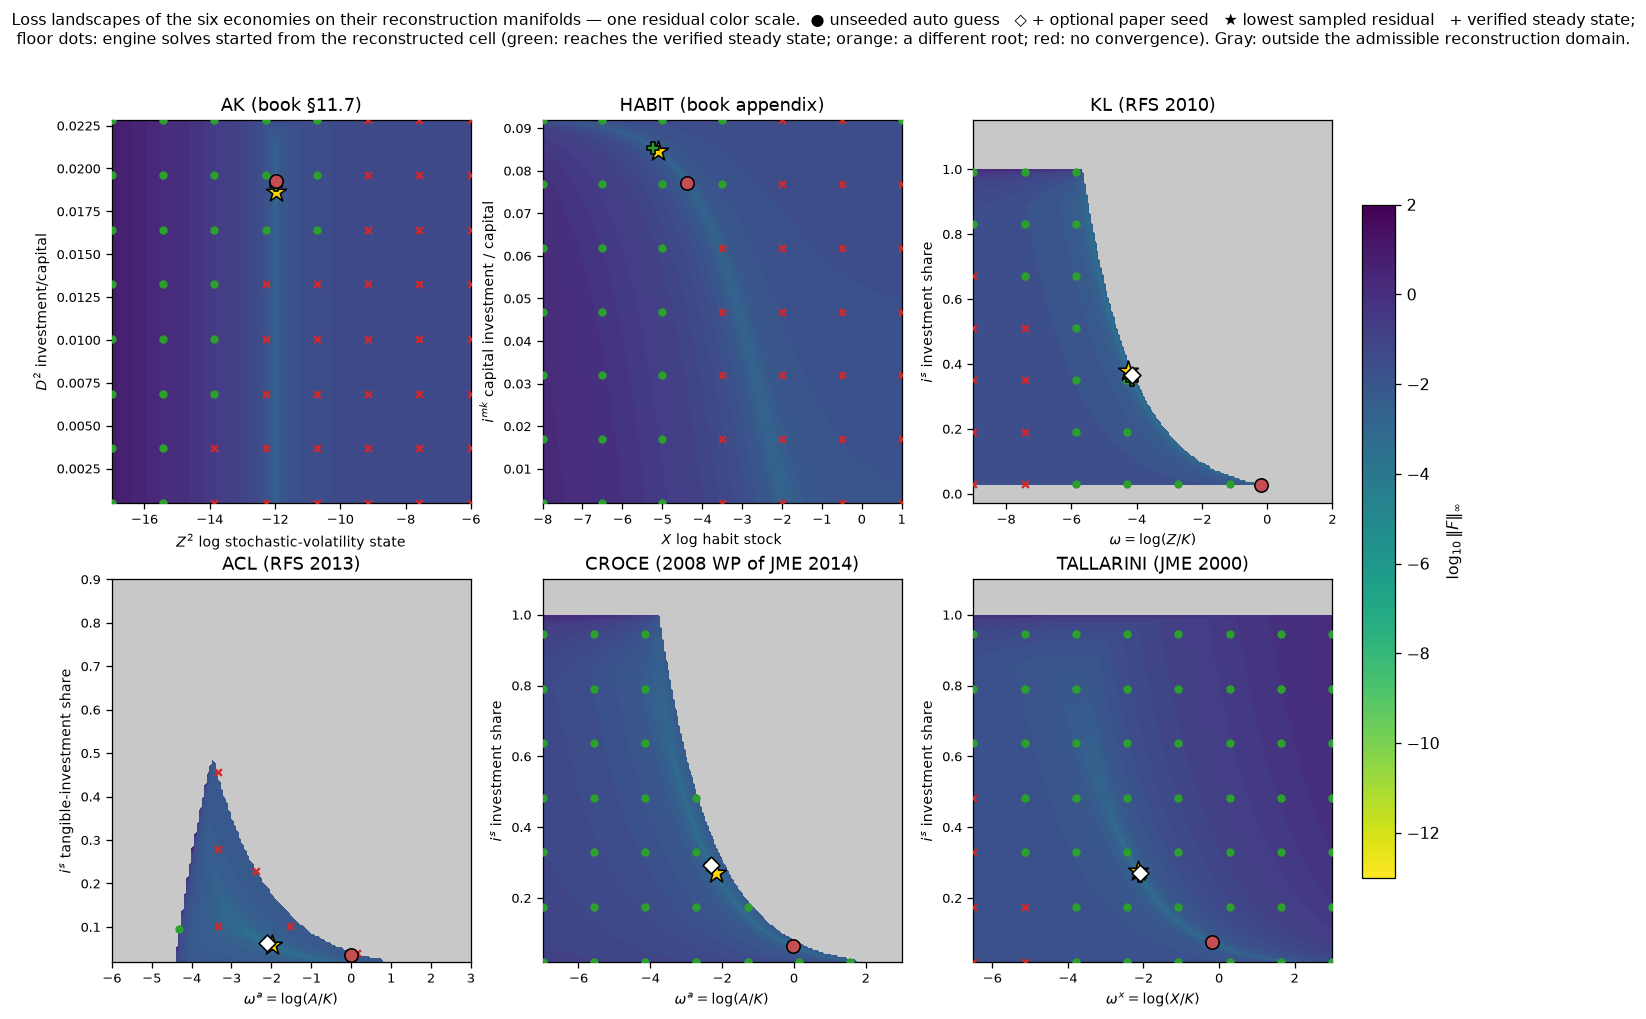
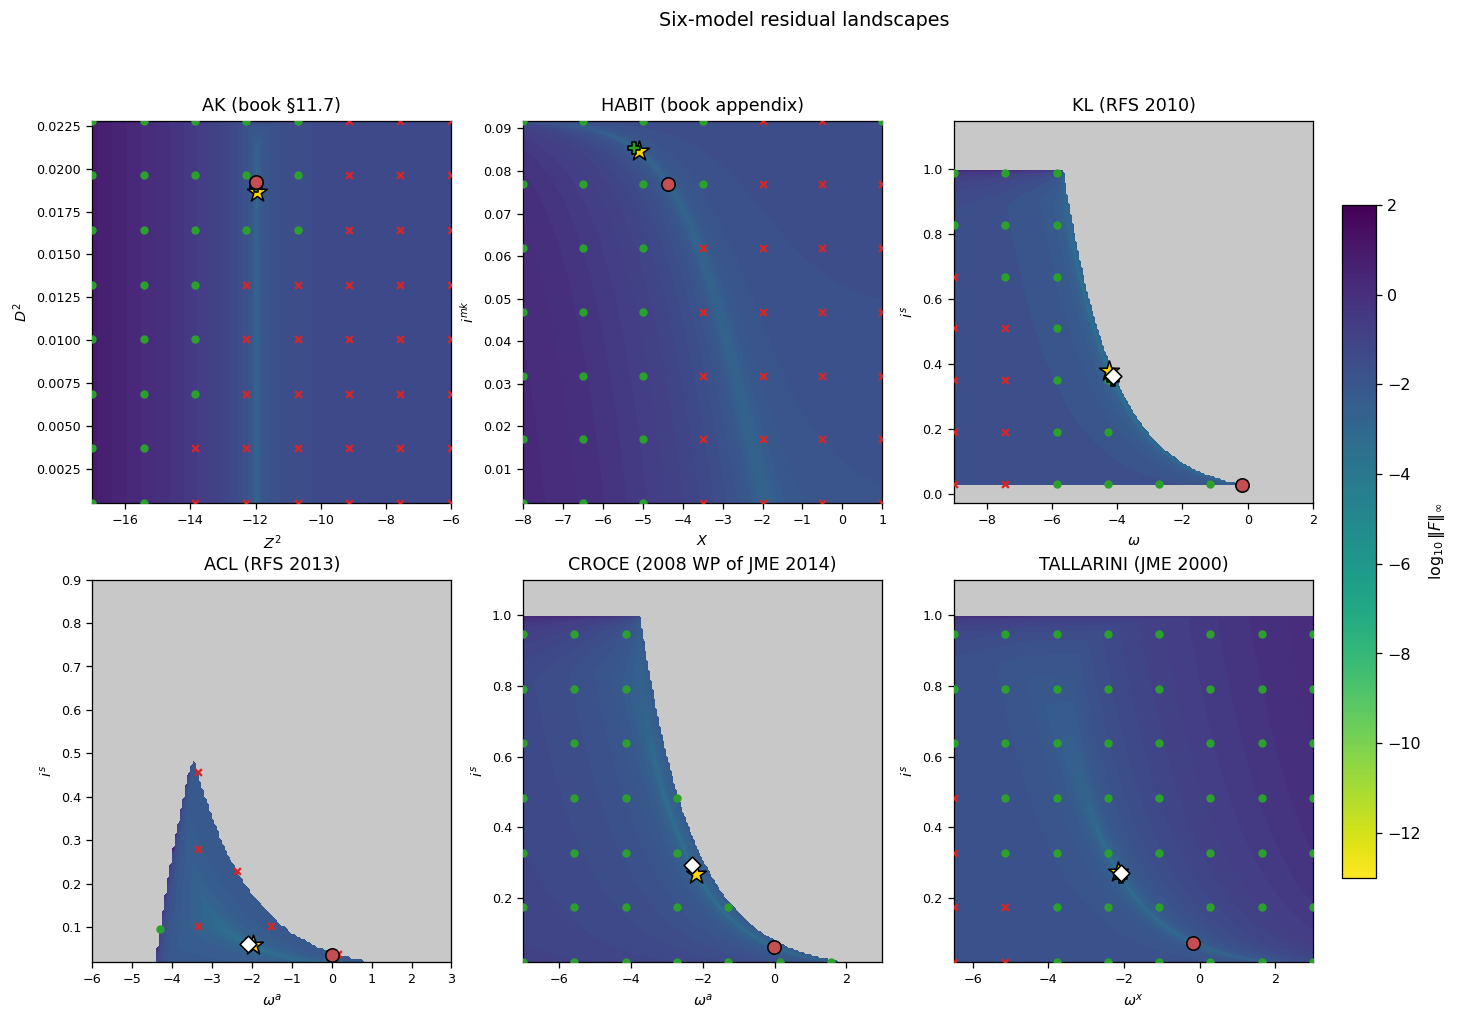
simplify 3D landscapes and move interpretation to captions

diff --git a/v2/support_material/make_landscapes.py b/v2/support_material/make_landscapes.py
@@ -32,6 +32,7 @@ not the surface, is what justifies the word "basin".
 
 Usage:  python make_landscapes.py KL          (one model)
         python make_landscapes.py overview    (2x3 panel from saved npz)
+        python make_landscapes.py render      (redraw all figures from saved npz)
         python make_landscapes.py all         (everything, sequentially)
 """
 import sys, os, re, time, warnings
@@ -39,17 +40,21 @@ warnings.filterwarnings("ignore")
 HERE = os.path.dirname(os.path.abspath(__file__))
 V2 = os.path.dirname(HERE)
 sys.path.insert(0, V2)
-import numpy as np, sympy as sp
+CLI_ARG = sys.argv[1] if len(sys.argv) > 1 else "all"
+RENDER_ONLY = CLI_ARG in {"overview", "render"}
+import numpy as np
 import matplotlib
 matplotlib.use("Agg")
 import matplotlib.pyplot as plt
 from matplotlib import colors as mcolors
 from mpl_toolkits.mplot3d import Axes3D  # noqa
-from scipy.optimize import brentq
-import uncertain_expansion_faisal_feb26 as robust
-from uncertain_expansion_faisal_feb26 import compile_equations
-from autosolve import derive_guess, autosolve, _solve_checked, _ss_names
-from models_sourced import MODELS
+if not RENDER_ONLY:
+    import sympy as sp
+    from scipy.optimize import brentq
+    import uncertain_expansion_faisal_feb26 as robust
+    from uncertain_expansion_faisal_feb26 import compile_equations
+    from autosolve import derive_guess, autosolve, _solve_checked, _ss_names
+    from models_sourced import MODELS
 
 ZMIN, ZMAX = -13.0, 2.0          # one residual color scale for all six
 NORM = mcolors.Normalize(vmin=ZMIN, vmax=ZMAX)
@@ -326,6 +331,15 @@ TITLE = {"AK": "AK (book §11.7)", "HABIT": "HABIT (book appendix)",
          "KL": "KL (RFS 2010)", "ACL": "ACL (RFS 2013)",
          "CROCE": "CROCE (2008 WP of JME 2014)", "TALLARINI": "TALLARINI (JME 2000)"}
 
+PLOT_LABELS = {
+    "AK": (r"$Z^2$", r"$D^2$"),
+    "HABIT": (r"$X$", r"$i^{mk}$"),
+    "KL": (r"$\omega$", r"$i^s$"),
+    "ACL": (r"$\omega^a$", r"$i^s$"),
+    "CROCE": (r"$\omega^a$", r"$i^s$"),
+    "TALLARINI": (r"$\omega^x$", r"$i^s$"),
+}
+
 
 def compute(name):
     cfg = CFG[name]
@@ -416,11 +430,11 @@ def plot(name):
                 allow_pickle=True)
     Z, G1, G2 = d["Z"], d["G1"], d["G2"]
     cold, seed, star, xstar, probes = d["cold"], d["seed"], d["star"], d["xstar"], d["probes"]
-    lab = list(d["labels"]); rule = str(d["rule"])
+    lab = PLOT_LABELS[name]
     WW, II = np.meshgrid(G1, G2)
     Zc = np.ma.masked_invalid(np.clip(Z, ZMIN, ZMAX))
 
-    fig = plt.figure(figsize=(12.5, 8.8))
+    fig = plt.figure(figsize=(9.2, 7.2))
     ax = fig.add_subplot(111, projection="3d")
     ax.plot_surface(WW, II, Zc, cmap=CMAP, norm=NORM, alpha=0.9,
                     linewidth=0, antialiased=True, rstride=2, cstride=2)
@@ -428,37 +442,35 @@ def plot(name):
     ax.contourf(WW, II, Zc, zdir="z", offset=zf, levels=24, cmap=CMAP,
                 norm=NORM, alpha=0.65)
     # convergence overlay on the floor
-    for out, c, m, lbl in ((2, "#2ca02c", "o", "solve from this cell reaches the verified steady state"),
-                           (1, "#ff7f0e", "s", "converges to a different root"),
-                           (0, "#d62728", "x", "no convergence within the probe budget")):
+    for out, c, m in ((2, "#2ca02c", "o"),
+                      (1, "#ff7f0e", "s"),
+                      (0, "#d62728", "x")):
         P = probes[probes[:, 2] == out] if len(probes) else np.zeros((0, 4))
         if len(P):
             ax.scatter(P[:, 0], P[:, 1], np.full(len(P), zf), marker=m, s=26,
-                       color=c, depthshade=False, label=lbl)
+                       color=c, depthshade=False)
     ax.plot([star[0]] * 2, [star[1]] * 2, [zf, star[2]], color="gold", lw=1.5)
     ax.scatter([star[0]], [star[1]], [zf], marker="*", s=260, color="gold",
-               edgecolor="k", label="lowest sampled residual on the reconstruction manifold", zorder=9)
+               edgecolor="k", zorder=9)
     ax.scatter([xstar[0]], [xstar[1]], [zf], marker="P", s=90, color="#2ca02c",
-               edgecolor="k", label="verified reference steady state", zorder=9)
+               edgecolor="k", zorder=9)
     ax.plot([cold[0]] * 2, [cold[1]] * 2, [zf, cold[2]], color="red", lw=1.0, ls=":")
     ax.scatter([cold[0]], [cold[1]], [cold[2]], marker="o", s=110, color="#c44e52",
-               edgecolor="k", label="unseeded auto guess (at its own residual)", zorder=9)
+               edgecolor="k", zorder=9)
     if np.isfinite(seed[0]):
         ax.plot([seed[0]] * 2, [seed[1]] * 2, [zf, seed[2]], color="k", lw=1.0, ls=":")
         ax.scatter([seed[0]], [seed[1]], [seed[2]], marker="D", s=100, color="white",
-                   edgecolor="k", label="auto guess + optional paper seed", zorder=9)
-    ax.set_xlabel(lab[0]); ax.set_ylabel(lab[1])
-    ax.set_zlabel(r"$\log_{10}\|F\|_\infty$ (full system, reconstructed slice)")
+                   edgecolor="k", zorder=9)
+    ax.set_xlabel(lab[0], labelpad=7)
+    ax.set_ylabel(lab[1], labelpad=7)
     ax.set_zlim(zf, ZMAX)
-    ax.set_title(f"{TITLE[name]} — loss landscape on the reconstruction manifold\n"
-                 f"reconstruction: {rule}; no joint nonlinear solve at grid points.\n"
-                 "Blank: outside the admissible reconstruction domain. "
-                 "Floor markers: engine solves started from the reconstructed cell.",
-                 fontsize=10)
+    ax.set_title(TITLE[name], fontsize=12, pad=10)
     ax.view_init(elev=28, azim=-63)
-    ax.legend(loc="upper left", fontsize=7)
+    ax.set_box_aspect((1.25, 1.0, 0.75))
+    ax.tick_params(labelsize=8, pad=1)
+    fig.subplots_adjust(left=0.0, right=0.97, bottom=0.01, top=0.92)
     out = os.path.join(HERE, f"landscape_{name.lower()}.png")
-    plt.savefig(out, dpi=115, bbox_inches="tight")
+    plt.savefig(out, dpi=135)
     plt.close(fig)
     print("saved", out, flush=True)
 
@@ -473,7 +485,7 @@ def overview():
         Z, G1, G2 = d["Z"], d["G1"], d["G2"]
         cold, seed, star, xstar, probes = (d["cold"], d["seed"], d["star"],
                                            d["xstar"], d["probes"])
-        lab = list(d["labels"])
+        lab = PLOT_LABELS[name]
         WW, II = np.meshgrid(G1, G2)
         Zc = np.ma.masked_invalid(np.clip(Z, ZMIN, ZMAX))
         cf = axp.contourf(WW, II, Zc, levels=24, cmap=CMAP, norm=NORM)
@@ -494,12 +506,7 @@ def overview():
         axp.set_title(TITLE[name], fontsize=11)
         axp.set_xlabel(lab[0], fontsize=9); axp.set_ylabel(lab[1], fontsize=9)
         axp.tick_params(labelsize=8)
-    fig.suptitle("Loss landscapes of the six economies on their reconstruction manifolds — "
-                 "one residual color scale.  ● unseeded auto guess   ◇ + optional paper seed   "
-                 "★ lowest sampled residual   + verified steady state;\n"
-                 "floor dots: engine solves started from the reconstructed cell "
-                 "(green: reaches the verified steady state; orange: a different root; red: no convergence). "
-                 "Gray: outside the admissible reconstruction domain.", fontsize=10)
+    fig.suptitle("Six-model residual landscapes", fontsize=12)
     cb = fig.colorbar(plt.cm.ScalarMappable(norm=NORM, cmap=CMAP),
                       ax=axes, shrink=0.8, pad=0.02)
     cb.set_label(r"$\log_{10}\|F\|_\infty$")
@@ -510,8 +517,12 @@ def overview():
 
 
 if __name__ == "__main__":
-    arg = sys.argv[1] if len(sys.argv) > 1 else "all"
+    arg = CLI_ARG
     if arg == "overview":
+        overview()
+    elif arg == "render":
+        for m in ["AK", "HABIT", "KL", "ACL", "CROCE", "TALLARINI"]:
+            plot(m)
         overview()
     elif arg == "all":
         for m in ["AK", "HABIT", "KL", "ACL", "CROCE", "TALLARINI"]:

diff --git a/v2/AUTO_GUESS.md b/v2/AUTO_GUESS.md
@@ -118,18 +118,6 @@ warm-starting each solve from the previous solution.
 
 ## 4. Numerical geometry: what $G_0$ has to find
 
-![overview](support_material/landscapes_overview.png)
-
-**The six loss landscapes in 3D** (surface = residual height on the
-reconstruction manifold; floor = the same landscape as a contour map with
-the convergence probes):
-
-| | |
-|---|---|
-| ![AK 3D](support_material/landscape_ak.png) | ![HABIT 3D](support_material/landscape_habit.png) |
-| ![KL 3D](support_material/landscape_kl.png) | ![ACL 3D](support_material/landscape_acl.png) |
-| ![CROCE 3D](support_material/landscape_croce.png) | ![TALLARINI 3D](support_material/landscape_tallarini.png) |
-
 For each model a **reconstruction map** $R_{\mathcal M}(z_1,z_2)$ takes
 the two fragile coordinates (the endogenous ratio state and the investment
 margin — the directions only the Euler equation can pin) and rebuilds
@@ -140,7 +128,14 @@ multipliers by one linear least-squares step (the first-order-condition
 block is linear in them). No joint nonlinear solve is performed at any
 grid point. The plotted surface is
 
-$$L_{\mathcal M}(z_1,z_2)=\log_{10}\left\|F_{\mathcal M}\!\big(R_{\mathcal M}(z_1,z_2)\big)\right\|_\infty ,$$
+$$
+L_{\mathcal M}(z_1,z_2)
+=
+\log_{10}
+\left\|
+F_{\mathcal M}\left(R_{\mathcal M}(z_1,z_2)\right)
+\right\|_\infty .
+$$
 
 so the only residual left on the manifold is the Euler incompatibility —
 the thing the solver actually has to resolve. Blank cells are **outside
@@ -149,26 +144,66 @@ value recursion undefined because the transversality margin is negative);
 they are properties of the candidate slice, not statements that the model
 has no solution.
 
-Reading the figures (`support_material/landscape_*.png`, one residual
-color scale throughout; `landscape_kl.png` is the canonical example):
+**Common visual key.** The surface height and color both report
+$\log_{10}\|F\|_\infty$ on a common scale. On the floor, green circles
+reach the verified steady state, orange squares reach another root, and
+red crosses do not converge within the probe budget. The large markers
+are ● unseeded $G_0$, ◇ optional paper seed, ★ lowest sampled residual,
+and + verified reference steady state.
 
-- ● = the unseeded $G_0$ guess, plotted at its own residual;
-  ◇ = $G_0$ with the paper's optional closed-form seed;
-  ★ = the lowest sampled residual on the manifold — for KL one grid cell
-  from the paper's closed-form steady state, found by grid evaluation
-  alone; **+** = the verified reference steady state — the accepted solve,
-  plotted for comparison (its own validation type is per model: independent
-  for the cold solves, consistency for seeded ACL, book replication for
-  HABIT).
-- The **floor dots** are the honest meaning of the word *basin*: at a
-  sparse grid of admissible cells the engine solve is actually started
-  from the reconstructed vector and classified — green (reaches the
-  verified steady state), orange (a different root), red (no convergence
-  within the probe budget). The surface shows geometry; the dots show
-  attraction.
-- This is the same instinct as examining objective geometry in convex
-  optimization, but it is **not** a claim that these problems are convex
-  — the landscapes visibly are not.
+![Six-model residual overview](support_material/landscapes_overview.png)
+
+*Figure 1. Six-model overview. Each panel is a top-down view of the same
+surface shown below. Gray denotes points outside the admissible
+reconstruction domain; the floor probes provide the empirical
+attraction-basin evidence.*
+
+![AK three-dimensional loss landscape](support_material/landscape_ak.png)
+
+*Figure 2a. AK economy. The low-residual trough is narrow in the investment
+direction and comparatively flat in the stochastic-volatility state. The
+unseeded construction solves without a paper seed and improves on the
+book's legacy hand-built starting vector.*
+
+![HABIT three-dimensional loss landscape](support_material/landscape_habit.png)
+
+*Figure 2b. Habit economy. The diagonal trough links the habit stock to
+capital investment. Green and red floor probes expose the attraction
+boundary, while the unseeded construction reaches the book-replication
+steady state without an external seed.*
+
+![KL three-dimensional loss landscape](support_material/landscape_kl.png)
+
+*Figure 2c. Kaltenbrunner–Lochstoer economy. The admissible domain has a
+curved boundary and a sharp Euler-compatible valley. The cold guess starts
+on the plateau but still solves; the optional paper seed moves the starting
+point close to the valley.*
+
+![ACL three-dimensional loss landscape](support_material/landscape_acl.png)
+
+*Figure 2d. Ai–Croce–Li economy. The two-capital model has the thinnest
+admissible region and the smallest sampled attraction basin. The cold
+construction fails within budget, whereas the paper-derived seed reaches
+the verified solution; this panel is therefore a consistency check rather
+than an independent discovery.*
+
+![CROCE three-dimensional loss landscape](support_material/landscape_croce.png)
+
+*Figure 2e. Croce economy. The reconstructed surface contains a broad,
+connected attraction basin: every sampled admissible starting point
+reaches the same steady state. The paper seed is an accelerator, not a
+requirement.*
+
+![Tallarini three-dimensional loss landscape](support_material/landscape_tallarini.png)
+
+*Figure 2f. Tallarini economy. Most sampled points lie in the verified
+basin even at risk aversion $\chi=100$. The cold construction solves
+quickly, and the closed-form seed is optional.*
+
+The surface shows numerical geometry; the floor probes show attraction.
+This follows the same instinct as examining objective geometry in convex
+optimization, but it is **not** a claim that these nonlinear systems are
+convex.
 
 Figures, grids, and probe outcomes are fully reproducible from
 `support_material/make_landscapes.py`; the sampled surfaces and probe
